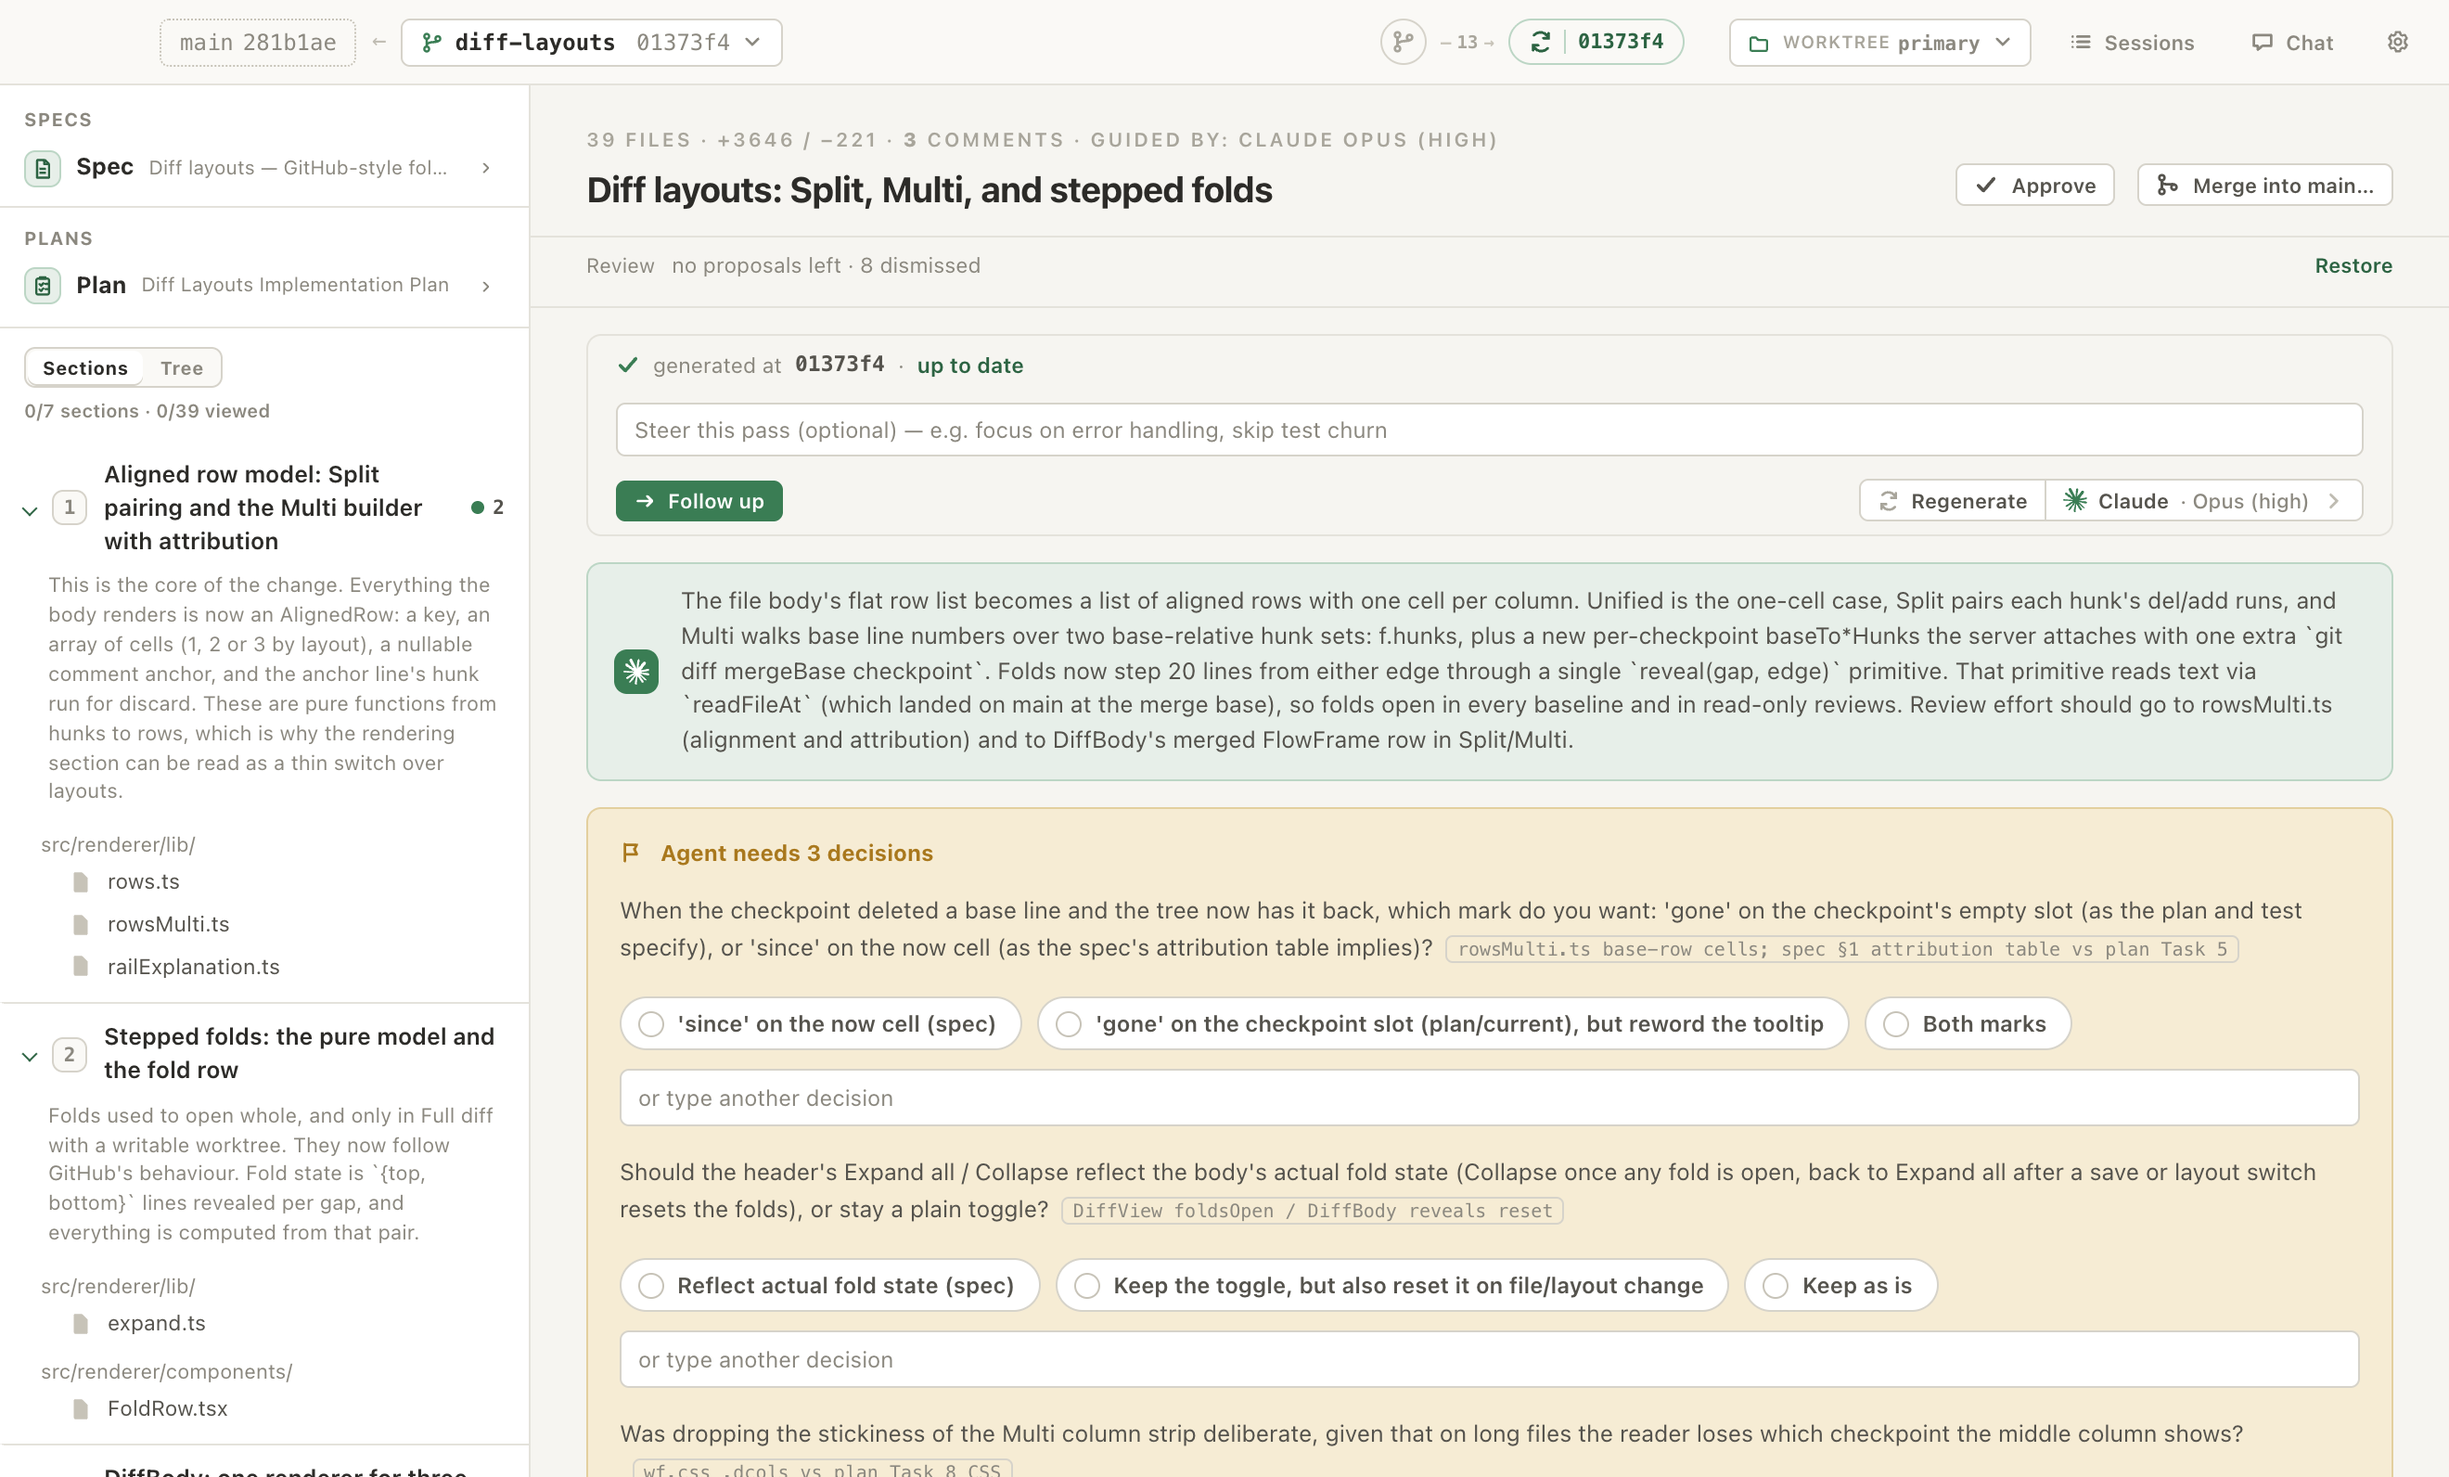
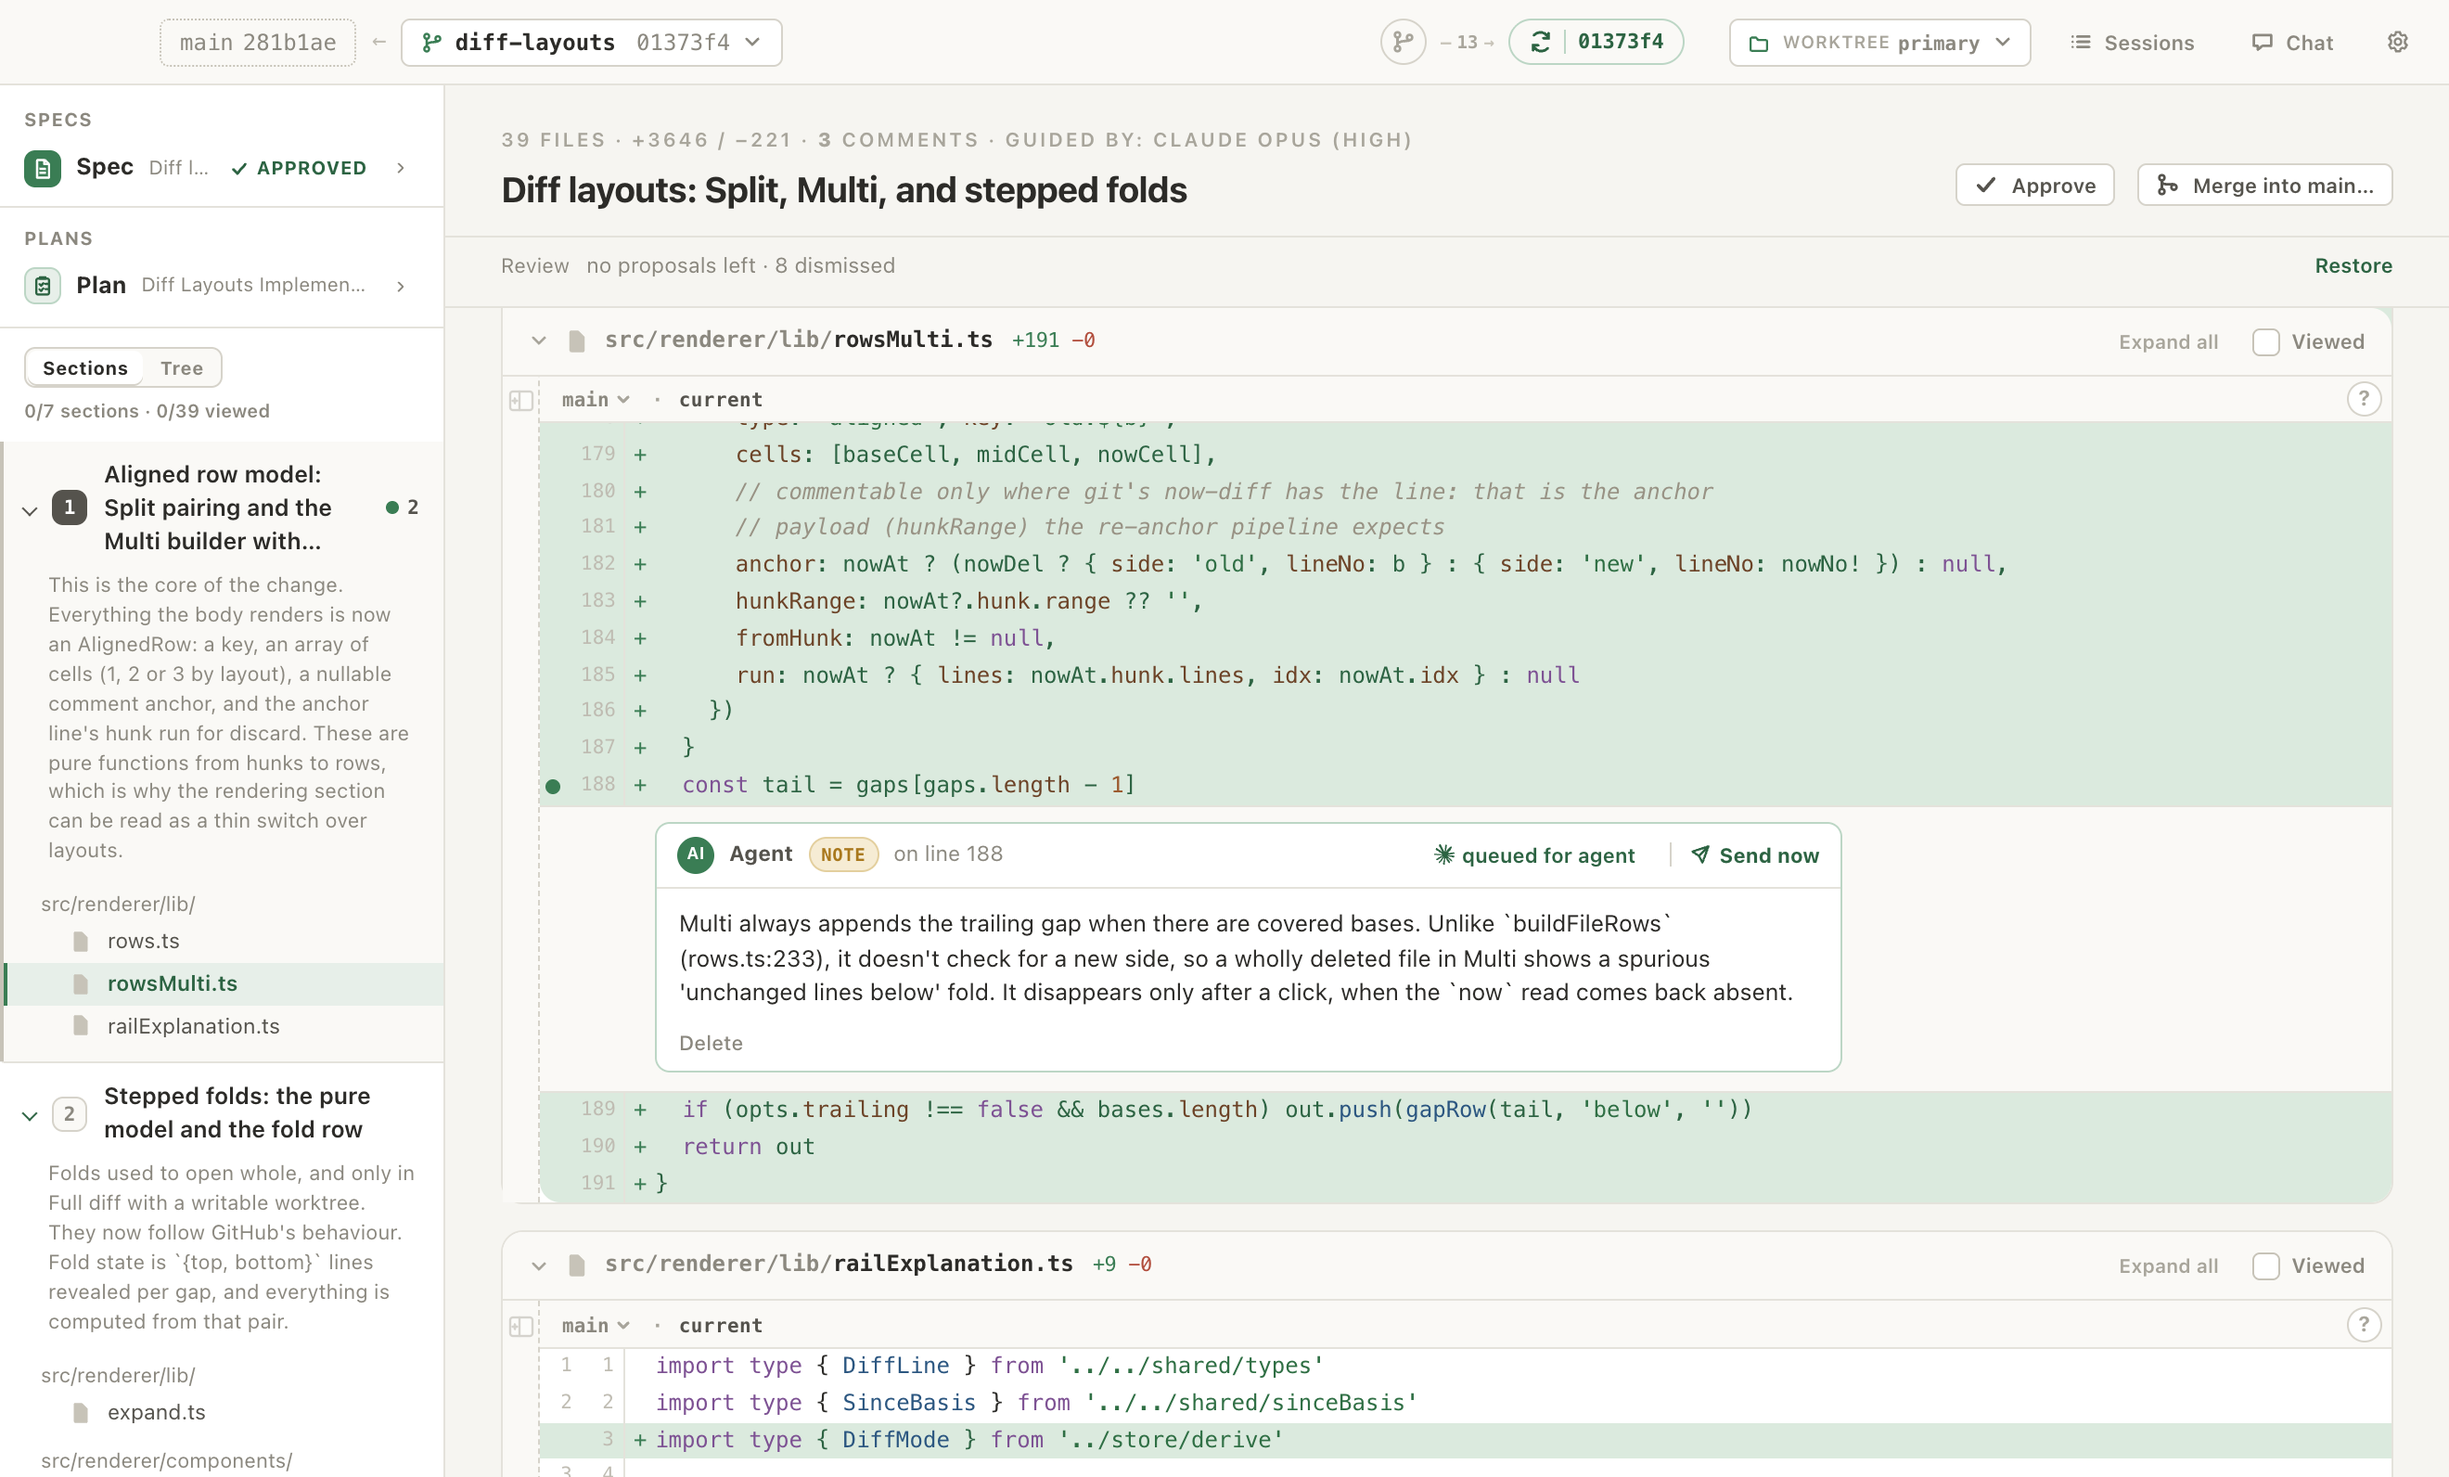
docs(readme): say who Limn is for; hero shows the diff; plainer prose
- Opening line pitches reviewing what your coding agent wrote before you
  push or merge.
- Hero recaptured on the same review: narrated sections beside a diff with
  an agent finding pinned to a line.
- Plain description of the per-file views instead of the "sheets" metaphor;
  drop the cmux aside; dev env vars as a table.
- Mention `limn open` as the spelled-out form of bare `limn`.
- Drop the dated model list and the desktop-app migration note (the
  CHANGELOG covers it).

Claude-Session: https://claude.ai/code/session_01SRq3PfqWR4dYpWruentxJV

diff --git a/README.md b/README.md
@@ -4,11 +4,11 @@
 [![Release](https://img.shields.io/github/v/release/glebmish/limn)](https://github.com/glebmish/limn/releases/latest)
 [![License](https://img.shields.io/github/license/glebmish/limn)](LICENSE)
 
-A local service + browser app for **agentic review of local git branches** that helps you understand the code.
+**Review what your coding agent wrote before you push or merge.** Limn opens a local git branch in your browser, has Claude or Codex explain the change section by section, and lets you comment on any line and send the comments back to the agent to fix.
 
 **Quick start:** `npm i -g https://github.com/glebmish/limn/releases/latest/download/limn.tgz`, then run `limn` inside a git repo. Needs Node 22.13+ and the `claude` or `codex` CLI — see [Prerequisites](#prerequisites).
 
-![A 39-file branch under guided review in Limn: the diff grouped into seven logical sections with per-section narration in the sidebar, a plain-language summary of what the branch does, and an "Agent needs 3 decisions" panel where the agent asks the reviewer to make a call before it proceeds.](docs/media/hero-review-question.png)
+![A 39-file branch under guided review in Limn: the sidebar groups the diff into logical sections, each with a short narration of what it changes; the main pane shows the diff of one file with an agent finding pinned to a line, explaining a bug and queued to send back to the agent.](docs/media/hero-review-question.png)
 
 - **Guided review** — Agent explains what has changed, splits the diff into logical sections and asks clarifying questions.
 - **Agentic tools** — Tools that let the agent navigate for you: jump to the file that builds a database query, walk the auth flow across files.
@@ -162,9 +162,6 @@ If it doesn't start:
   is installed, so after installing a CLI into a new directory, re-run
   `limn service install`.
 
-Coming from the desktop app: delete `Limn.app`; your reviews are in the same database
-and `limn` offers to remove the old shell shim it installed.
-
 ## Using it
 
 1. **Open a repository** (*Open repository…*) by typing its path — Limn adds it to the
@@ -179,15 +176,14 @@ and `limn` offers to remove the old shell shim it installed.
 4. Change the **base** with the ref picker (branches, recent commits, or a typed
    SHA / `HEAD~N` / tag); switch the **branch** — and where it's checked out — with the
    branch/worktree picker. Pick an engine — and optionally a model and reasoning effort
-   (Claude Fable/Opus/Sonnet `low→max`, Codex GPT-6/5.6 `low→max`, GPT-5.5 `low→xhigh`; *Auto* uses the engine
-   default) — then **Generate guided review**.
+   (*Auto* uses the engine default) — then **Generate guided review**.
 5. **Review**: mark files viewed, mark sections reviewed, comment on any diff line,
    section, agent question, or spec/plan line; **Chat** shares the agent's session.
    The **Sessions** button opens the repo hub with every saved review for the repo.
 6. **Send N pending comments** (chat drawer) — the agent edits, commits on your branch
    when it's checked out, and reports a resolution per comment. **Approve** records the reviewed SHA.
 
-Limn **watches the branch** — when commits land from outside (e.g. a Claude Code session in a terminal), a header fetch pill shows the drift and lets you reload when ready. After reload, "changed since viewed" / "changed since the review's baseline" rails highlight what moved. Diffs are syntax-highlighted with word-level change marks. A file's columns are a stack of **sheets** pulled from the diff's left edge: read it unified against any checkpoint, pull one sheet for a side-by-side view, or pull the base and a checkpoint to see what the review already covered and what moved after it, each change attributed; a ✓ spreads one file's stack to the whole review. Unchanged lines fold and open 20 at a time, in any view.
+Limn **watches the branch** — when commits land from outside (e.g. a Claude Code session in a terminal), a header fetch pill shows the drift and lets you reload when ready. After reload, "changed since viewed" / "changed since the review's baseline" rails highlight what moved. Diffs are syntax-highlighted with word-level change marks. Each file can be read three ways from the controls at its left edge: unified against any earlier checkpoint, side by side, or in three columns (base, a checkpoint, and now) that show what the review already covered and what changed after it. The ✓ there applies one file's choice to every file in the review. Unchanged lines fold and open 20 at a time, in any view.
 
 ### The address bar
 
@@ -211,7 +207,7 @@ local tool, so those links only mean anything on the machine that has the repo.
 ### The `limn` command
 
 The CLI ships with the package. If the service is running it opens there; otherwise it
-starts a server for you.
+starts a server for you. `limn open [DIR] …` is the same command spelled out.
 
 ```bash
 limn                                 # review the current branch of the repo you're in
@@ -235,7 +231,7 @@ limn --generate --print-url          # print the review URL instead of opening a
 | `--agent NAME` | Override the review agent (`claude` or `codex`) for this generation only. Needs `--generate`. |
 | `--model NAME` | Override the model for this generation only. Needs `--generate`. |
 | `--effort LEVEL` | Override the reasoning effort for this generation only. Needs `--generate` and a model. |
-| `--print-url` | Print the page URL on stdout instead of opening a browser (or a cmux pane). |
+| `--print-url` | Print the page URL on stdout instead of opening a browser. |
 
 ```bash
 limn service serve [--port N] [--port-80]   # foreground server (default 5466)
@@ -290,7 +286,20 @@ packed tarball (bundled JS-only adapter closure, no platform binaries) as
 `glebmish-limn-<version>.tgz` and `limn.tgz`, plus `SHA256SUMS`. Nothing is published
 to the npm registry — `package.json` is `"private": true`, so `npm publish` refuses.
 
-Useful dev env vars: `LIMN_DEMO=1` (deterministic fake engine), `LIMN_PORT` (server port), `LIMN_DB` (SQLite path), `LIMN_WEB_HOST` / `LIMN_WEB_TOKEN` (bind somewhere other than loopback — e.g. a Tailscale address — with a required token; the service records them when they are set in the shell that runs `limn service install`). `LIMN_DEV_HOOKS=1` arms the page-level dev hooks below for that server process — the SPA ignores `?dev=` unless the server it was served from set it (the hooks can run agent prompts and file edits, so a crafted link must not be enough); `npm run dev`, `npm run dev:server` and the screenshot scripts set it for you. Page-level dev hooks (read by `scripts/dev-url.mts`, see *Screenshots*): `LIMN_OPEN_SESSION=<id>` (open straight to a saved review), `LIMN_OPEN_HUB=<repo>` (open a repo's saved-review list), `LIMN_FLOW=generate|chat` (auto-run a flow / open the chat drawer). Real-engine smoke script: `npx tsx scripts/acp-smoke.ts --engine=claude|codex`.
+Useful dev env vars:
+
+| Variable | Effect |
+| --- | --- |
+| `LIMN_DEMO=1` | Deterministic fake engine instead of Claude/Codex. |
+| `LIMN_PORT` | Server port. |
+| `LIMN_DB` | SQLite database path. |
+| `LIMN_WEB_HOST` / `LIMN_WEB_TOKEN` | Bind somewhere other than loopback (e.g. a Tailscale address); the token is required. `limn service install` records them when they are set in its shell. |
+| `LIMN_DEV_HOOKS=1` | Lets the page honour `?dev=` hooks. Off by default, because the hooks can run agent prompts and file edits and a crafted link must not be enough; `npm run dev`, `npm run dev:server` and the screenshot scripts set it. |
+
+The `?dev=` hooks themselves are built by `scripts/dev-url.mts` from `LIMN_OPEN_SESSION=<id>`
+(open a saved review), `LIMN_OPEN_HUB=<repo>` (open a repo's saved-review list) and
+`LIMN_FLOW=generate|chat` (run generation or open the chat drawer). Real-engine smoke
+test: `npx tsx scripts/acp-smoke.ts --engine=claude|codex`.
 
 **Screenshots:** `scripts/shot.sh <out.png> [LIMN_* hooks]` seeds a fixture repo + db, serves it on an ephemeral port, and captures the page with headless Chrome over CDP (`CHROME_BIN` overrides the binary). The hooks — `LIMN_ACTIVE_CHAT=<id>` (activate a chat), `LIMN_OPEN_PICKER=1` (open the agent popover), `LIMN_OPEN_CHATLIST=1` (open the chat dropdown), … — travel to the page as `?dev=<json>` built by `scripts/dev-url.mts` (the script starts its server with `LIMN_DEV_HOOKS=1`).
 
